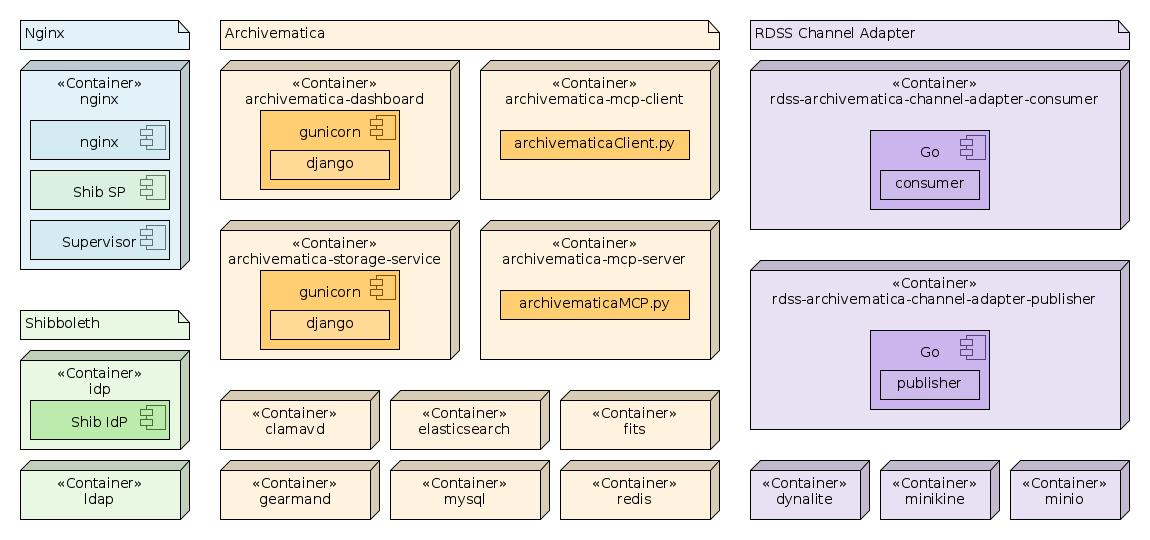
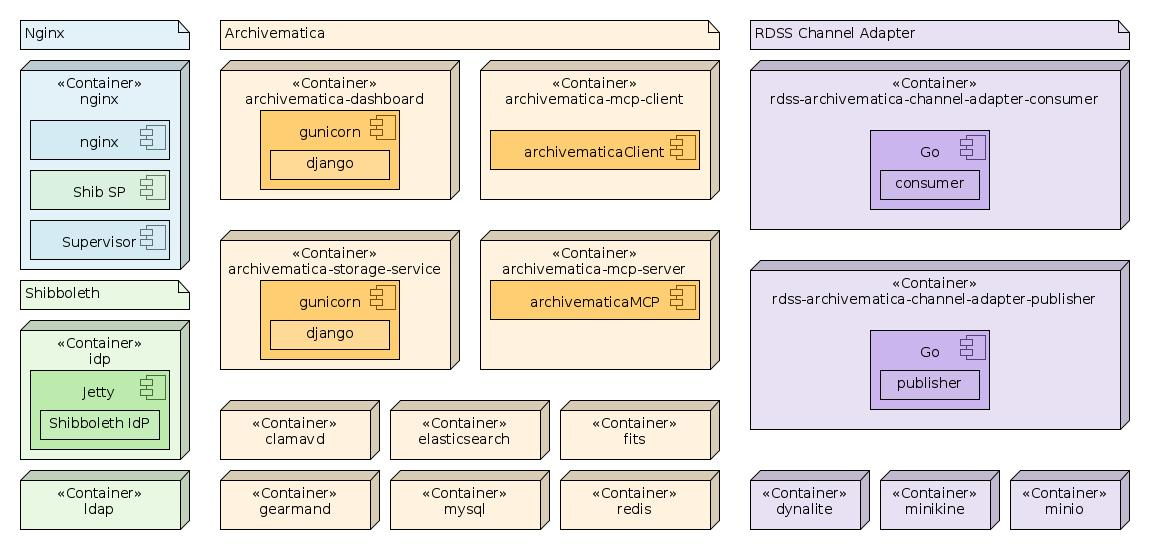
Compose: added and updated documentation

diff --git a/compose/shib/idp/README.md b/compose/shib/idp/README.md
@@ -1,4 +1,67 @@
 Shibboleth: Common IdP Service
 ===============================
 
-TBC
+The IdP service includes the [Shibboleth Identity Provider](https://shibboleth.net/products/identity-provider.html), running in a Jetty container.
+
+The IdP does not ship with a default configuration - instead an install script is provided to create a `customized-shibboleth-idp` directory that is then expected to be modified manually to customize the IdP to meet requirements. This is fine unless the installation is being automated - we want to be able to bring up containers unattended, if need be.
+
+This container uses the `arkivum/shibboleth-idp` image, which extends the [unicorn/shibboleth-idp](https://hub.docker.com/r/unicon/shibboleth-idp/) image, and uses CentOS 7 as its base image.
+
+The configuration here is intended to be "abstract" - additional config files are required for the service to work. The [am-shib IdP](../../am-shib/idp) and [example-shib IdP](../../example-shib/idp) are examples of this.
+
+Building
+---------
+
+The image build itself is expected to be done by the `docker-compose build` task when processing a compose config file. However, prior to that, the IdP needs configuring, which is what the [build script](build.sh) does:
+
+	./build.sh
+
+The IdP itself provides an install wizard that helps you to get set up. The recommended way of setting up the `unicon/shibboleth-idp` image is to run it using `docker run` and specify a directory on the host as a volume mount so that the config files generated by the installer are available after the docker instance has stopped. For example:
+
+	docker run --rm -it -v .:/ext-mount unicon/shibboleth-idp
+
+Unfortunately, when this is run it asks a bunch of questions to help with the set up - not helpful for automatic deployments.
+
+The [init-idp.sh](bin/init-idp.sh) script helps to overcome this. It provides answers to the questions via command line arguments, properties files and environment variables to avoid any interaction being required. We run it like this as part of the build script:
+
+	docker run --rm -it \
+		-h ${IDP_HOSTNAME} \
+		-v $(pwd)/bin:/setup/bin \
+		-v $(pwd)/conf:/setup/conf \
+		-v ${BUILD_DIR}:/ext-mount \
+		-e DOMAIN_NAME=${DOMAIN_NAME} \
+		unicon/shibboleth-idp /setup/bin/init-idp.sh
+
+The additional volumes give us our script and its [config](conf) files, whilst the hostname and environment variable ensure that the generated config has the right parameters for certificates etc.
+
+The only config file relevant to the `init-idp.sh` script is [idp.properties.tpl](conf/idp.properties.tpl) which is a templated properties file used to configure the IdP. This template includes environment variables which are replaced using `sed` before being passed to the installer.
+
+The output of the installer is put into the `build/customized-shibboleth-idp` folder on the Docker host machine.
+
+Aside from running the installer to generate the config, the build script also creates and updates the certificates and keys used for SSL, encryption and signing. These certificates are signed by the [CA](../ca) for the domain.
+
+Configuration
+--------------
+
+Most of the configuration files for the IdP are generated by the installer. There are a few that are overriden, which are in the [conf](conf) folder. These are:
+
+* [attribute-filter.xml](conf/attribute-filter.xml)
+* [attribute-resolver.xml](conf/attribute-resolver.xml)
+* [ldap.properties](conf/ldap.properties)
+
+The `attribute-resolver.xml` file configures how the IdP resolves the attributes for a user that it can share with an SP. In the current configuration, the attributes are resolved by looking up in our [ldap](../ldap) service, and the attributes given relate to the eduPerson schema used by the LDAP records. Details of this configuration file are available [here](https://wiki.shibboleth.net/confluence/display/IDP30/AttributeResolverConfiguration).
+
+The `attribute-filter.xml` file configures how the IdP filters the attributes it retrieves from the configured data connector(s) (i.e. LDAP) before sharing them with an SP. The current configuration is very simple, allowing all available attributes to be shared with any SP requesting them. This can of course be changed; details of this configuration file are available [here](https://wiki.shibboleth.net/confluence/display/IDP30/AttributeFilterConfiguration).
+
+Finally, the `ldap.properties` file configures how the IdP connects to the LDAP directory service to lookup user credentials. The main thing here is setting the baseDN and bindDN to match the installation environment - in particular getting the domain name right and lookup credentials right. Further information about LDAP configuration can be found [here](https://wiki.shibboleth.net/confluence/display/IDP30/LDAPAuthnConfiguration).
+
+More details of the IdP and its configuration are available in the [official documentation](https://wiki.shibboleth.net/confluence/display/IDP30/).
+
+UI Customization
+-----------------
+
+The IdP runs as a web application and presents a user interface for sign in etc. The current configuration uses a very basic (default) template with a couple of minor customizations to the logo and message text.
+
+The logo image is in the [images](images) folder. The path to the file, along with a few other text strings, is set in the [messages](messages/messages.properties) file, which is merged with the main system messages file at runtime.
+
+At the moment the IdP presents itself as "Example University". If this needs to be changed then the [messages.properties](messages/messages.properties) is the place to do it (it could be made more dynamic but this would require the logo image to be selected/generated too, which is not core to the purpose of this IdP container).

diff --git a/compose/README.md b/compose/README.md
@@ -9,16 +9,18 @@ The following diagram gives an overview of the deployed service containers, grou
 
 In the above, the main Archivematica services are highlighted in orange. The services related to Shibboleth are in green, whilst the RDSS-specific containers are highlighted in purple. The nginx service that fronts it all is highlighted in blue. Where relevant the components deployed into each container are shown; for base services this is omitted.
 
-Configuration Sets
--------------------
+Some of these containers are required for local development only. In a production deployment, the `dynalite`, `minikine` and `minio` containers would be replaced with connections to actual DynamoDB, Kinesis and S3 services in an AWS environment. Similarly, if the Shibboleth SP in the `nginx` container is configured to use an external IdP then the `idp` and `ldap` containers would become unnecessary.
 
-There are currently three configuration sets defined:
+Service Sets
+-------------
+
+There are currently three service sets defined:
 
 1. [dev](dev), which defines the main Archivematica services and supporting web server, db, etc, suitable for use in a development environment.
 1. [example-shib](example-shib), which demonstrates Shibboleth integration, providing two demo applications, and Shibboleth Service Providers (SP) and an Identity Provider (IdP) with backing LDAP service.
 1. [am-shib](am-shib), which wraps the Archivematica services in the [dev](dev) service set in Shibboleth authentication, with an integrated SP and example IdP.
 
-These configurations are defined by [docker-compose.dev.yml](docker-compose.dev.yml), [docker-compose.example-shib.yml](docker-compose.example-shib.yml) and [docker-compose.am-shib.yml](docker-compose.am-shib.yml), respectively. You can use the [COMPOSE_FILE](https://docs.docker.com/compose/reference/envvars/) environment variable to set which `docker-compose` file or files you wish to use.
+These service sets are defined by [docker-compose.dev.yml](docker-compose.dev.yml), [docker-compose.example-shib.yml](docker-compose.example-shib.yml) and [docker-compose.am-shib.yml](docker-compose.am-shib.yml), respectively. You can use the [COMPOSE_FILE](https://docs.docker.com/compose/reference/envvars/) environment variable to set which `docker-compose` file or files you wish to use.
 
 To just configure the Archivematica dev environment, use
 
@@ -72,7 +74,7 @@ If you want to focus on just the Shibboleth services and aren't concerned with A
 
 	make all SHIBBOLETH_CONFIG=example
 
-This will bring up the services defined in [docker-compose.example-shib.yml](docker-compose.example-shib.yml), without any Archivmatica services..
+This will bring up the services defined in [docker-compose.example-shib.yml](docker-compose.example-shib.yml), without any Archivmatica services.
 
 After a successful build of the Shibboleth-enabled Archivematica services you should find you have the following services listed by `make list`:
 
@@ -134,4 +136,3 @@ Here are some other `make` commands other than `make all` that may be useful whe
 | `make watch-sp` | Watch logs from the [sp](example-shib/sp) container, if present (`example-shib` only) |
 
 Remember to append the `SHIBBOLETH_CONFIG` argument to the above commands if `make all` was run with this set, otherwise the `docker-compose` context won't be resolved properly (this is required for the `watch-idp` and `watch-sp` commands).
-

diff --git a/compose/am-shib/nginx/README.md b/compose/am-shib/nginx/README.md
@@ -1,4 +1,28 @@
 Shibboleth-enabled Archivematica: Nginx Service
-===================================================
+================================================
 
-TBC
+This service provides a "concrete" instance of the [shib/nginx](../shib/nginx) service.
+
+It provides two templated files required by the generic image: the [template nginx config file](etc/nginx/conf.d/example.conf.tpl) and the [template Shibboleth config file](etc/shibboleth/shibboleth2.xml.tpl). The [build script](build.sh) provides these, along with the required private key and certificates signed by the [domain CA](../shib/ca).
+
+The nginx service hosts two virtual servers, one for the Archivematica Dashboard on port 443, and one for the Archivematica Storage Service on port 8443. Each server is configured with the required Shibboleth locations, as well as the `/` location, which is secured by Shibboleth. Some resources, such as `/api` and static media are not secured, because they don't need to be.
+
+By default the nginx service is configured to be available at `https://archivematica.example.ac.uk/`.
+
+Building
+---------
+
+The [build script](build.sh) will prepare the image with the relevant configuration and certificates etc:
+
+	./build.sh
+
+Configuration
+--------------
+
+The template files for the `nginx` configuration and `shibboleth2.xml` configuration are included in the [etc](etc) folder. See [shib/nginx](../../shib/nginx) for more information.
+
+Unlike [example-shib/nginx](../../example-shib/nginx), the Archivematica Shibboleth configuration is a bit more involved and specific.
+
+In particular, it has been tuned to work with the eduPerson schema, which is what the [attribute map](etc/shibboleth/attribute-map.xml) does. The [shibboleth2.xml](etc/shibboleth/shibboleth2.xml.tpl) includes access control elements that restrict access to the Dashboard and Storage Service based on a user's entitlements (derived from the `eduPersonEntitlement` attribute in LDAP). The Dashboard and the Storage Service are treated as two seperate applications, each with their own `entityID`.
+
+Because there are two applications, there needs to be two FastCGI handlers too. This requires a change to the [Supervisor configuration](etc/supervisor/conf.d/shibboleth.conf), to add the additional handler.

diff --git a/compose/example-shib/README.md b/compose/example-shib/README.md
@@ -21,24 +21,24 @@ Services
 
 ### Nginx (with Shibboleth SP)
 
-The `nginx` container overrides the `dev/nginx` container defined by the main Archivematica compose config. This container uses the `arkivum/shibboleth-nginx` image, which is built using the "abstract" `shib/nginx` [Dockerfile](../shib/nginx/Dockerfile). This is prepared and built using the [build script](nginx/build.sh).
+The `nginx` container uses the `arkivum/shibboleth-nginx` image, which is built using the "abstract" `shib/nginx` [Dockerfile](../shib/nginx/Dockerfile). This is prepared and built using the [build script](nginx/build.sh).
 
-See the nginx [README](nginx/README.md) for more details.
+See the [README](nginx/README.md) for more details.
 
 ### Shibboleth IdP
 
 This container uses the `arkivum/shibboleth-idp` image, which is built using the "abstract" `shib/idp` [Dockerfile](../shib/idp/Dockerfile). This is prepared and built using its [build script](idp/build.sh).
 
-See the idp [README] (idp/README.md) for more details.
+See the [README](idp/README.md) for more details.
 
 ### Shibboleth SP1
 
 This container runs the [sp1](https://github.com/serglopatin/sp1) application to demonstrate the use of the [djangosaml2]() library to interact with a Shibboleth IdP. This is an alternative to using the Shibboleth SP FastCGI module used in the `nginx` container.
 
-See the sp1 [README] (sp/README.md) for more details.
+See the [README](sp/README.md) for more details.
 
 ### MyApp
 
 This container runs a very simple Django application. It does not offer any Shibboleth integration itself - instead it expects to be protected by Shibboleth via the nginx container, which is expected to be used as a proxy layer for this service.
 
-See the myapp [README](myapp/README.md) for more details.
+See the [README](myapp/README.md) for more details.

diff --git a/compose/am-shib/README.md b/compose/am-shib/README.md
@@ -1,4 +1,30 @@
 Shibboleth-enabled Archivematica Services
 ===========================================
 
-TBC
+The containers in this `docker-compose` service set provide an Archivematica deployment that uses Shibboleth authentication to secure access.
+
+Building
+---------
+
+Use `make` to build these services:
+
+	make all
+
+Though the above can be used, it will not include any of the main Archivematica containers, so the `nginx` service will not have any running services to proxy. Because of this, it is recommended you use the parent [compose](compose) makefile to build this service set, unless wishing to reduce the build time during development/debugging.
+
+Services
+---------
+
+In addition to the main Archivematica containers, this service set includes the following services.
+
+### Nginx (with Shibboleth SP)
+
+This container overrides the `dev/nginx` container and uses the `arkivum/shibboleth-nginx` image, which is built using the "abstract" `shib/nginx` [Dockerfile](../shib/nginx/Dockerfile). It proxies the Archivematica Dashboard and Storage Service, using the Shibboleth SP to secure access to these resources.
+
+See the [README](nginx/README.md) for more details.
+
+### Shibboleth IdP
+
+This container uses the `arkivum/shibboleth-idp` image, which is built using the "abstract" `shib/idp` [Dockerfile](../shib/idp/Dockerfile). This is prepared and built using its [build script](idp/build.sh).
+
+See the idp [README](idp/README.md) for more details.

diff --git a/compose/shib/README.md b/compose/shib/README.md
@@ -11,7 +11,7 @@ This folder contains the definitions for services that are common to all Shibbol
 Shibboleth Identity Provider
 -----------------------------
 
-This container uses the `arkivum/example-shib-idp` image. This extends the [unicorn/shibboleth-idp](https://hub.docker.com/r/unicon/shibboleth-idp/) image, which uses CentOS 7 as its base image.
+This container uses the `arkivum/shibboleth-idp` image, which extends the [unicorn/shibboleth-idp](https://hub.docker.com/r/unicon/shibboleth-idp/) image, and uses CentOS 7 as its base image.
 
 The software run by this image is the off-the-shelf [Shibboleth IdP](https://shibboleth.net/products/identity-provider.html), which runs as a Java webapp in Jetty. The IdP does not ship with a default configuration - instead a build script is provided to create a `customized-shibboleth-idp` directory that is then expected to be modified manually to customize the IdP to meet requirements. This is fine unless the installation is being automated - we want to be able to bring up containers unattended, if need be.
 

diff --git a/compose/am-shib/idp/README.md b/compose/am-shib/idp/README.md
@@ -1,4 +1,10 @@
 Shibboleth-enabled Archivematica: IdP Service
 ==============================================
 
-TBC
+This service provides a "concrete" instance of the [shib/idp](../shib/idp) service.
+
+It provides the [service-providers.json](etc/service-providers.json) file, which is used by the [build script](build.sh) to use the [idp-metadata-providers.py](../../shib/idp-metadata-providers.py) script to generate the required `metadata-providers.xml` used by the IdP to describe the SPs it knows about.
+
+In this Archivematica Shibboleth deployment, we have two SPs: one for the Archivematica Dashboard and one for the Archivematica Storage Service. Although part of the same product they run on different ports they have different endpoints, hence it is simplest to treat them as different SPs as far as the IdP is concerned.
+
+In reality, the Dashboard and Storage Service are both serviced by the same SP; see the relevant [nginx](../nginx) service for details.

diff --git a/compose/example-shib/idp/README.md b/compose/example-shib/idp/README.md
@@ -3,6 +3,6 @@ Shibboleth Example: IdP Service
 
 This service provides a "concrete" instance of the [shib/idp](../shib/idp) service.
 
-It provides the [service-providers.json](etc/service-providers.json) file, which is used by the [build script](build.sh) to use the [idp-metadata-providers.py] script to generate the required `metadata-providers.xml` used by the IdP to describe the SPs it knows about.
+It provides the [service-providers.json](etc/service-providers.json) file, which is used by the [build script](build.sh) to use the [idp-metadata-providers.py](../../shib/idp-metadata-providers.py) script to generate the required `metadata-providers.xml` used by the IdP to describe the SPs it knows about.
 
 In this Shibboleth example, we have two SPs: the FastCGI one within the `nginx` container, and the one within the `sp` container, running the [SP1](sp) service.

diff --git a/compose/example-shib/nginx/README.md b/compose/example-shib/nginx/README.md
@@ -8,3 +8,15 @@ It provides two templated files required by the generic image: the [template ngi
 The nginx server is configured with the required Shibboleth locations, as well as the `/app` location, which is secured by Shibboleth. Through configuration in the `docker-compose` file, this is a proxy to the [myapp](../myapp) application.
 
 By default the nginx service is configured to be available at `https://myapp.example.ac.uk/`.
+
+Building
+---------
+
+The [build script](build.sh) will prepare the image with the relevant configuration and certificates etc:
+
+	./build.sh
+
+Configuration
+--------------
+
+The template files for the `nginx` configuration and `shibboleth2.xml` configuration are included in the [etc](etc) folder. See [shib/nginx](../../shib/nginx) for more information.

diff --git a/compose/shib/ca/README.md b/compose/shib/ca/README.md
@@ -14,7 +14,7 @@ This folder contains scripts and configuration files to use OpenSSL to operate a
 Initial Setup
 ---------------
 
-The [init.sh](ca/init.sh) script initializes the Certificate Authority, creating the initial certificate and database etc. This script only needs to be run once - it doesn't need to be re-run each build.
+The [init script](ca/init.sh) initializes the Certificate Authority, creating the initial certificate and database etc. This script only needs to be run once - it doesn't need to be re-run each build.
 
 This script can be used to manage multiple domains. The CA for each domain has its files in the `domains` folder, under a sub-folder for that domain (e.g. `example.ac.uk`).
 

diff --git a/compose/shib/nginx/README.md b/compose/shib/nginx/README.md
@@ -27,7 +27,7 @@ All of the above arguments are required; there are no defaults.
 Building
 ---------
 
-The [build.sh](build.sh) script is provided to make building images with the required arguments easier. For example:
+The [build script](build.sh) is provided to make building images with the required arguments easier. For example:
 
 	./build.sh -c /tmp/example-ca.crt -d example.com \
 		-k /tmp/sp-key.pem -s /tmp/sp-cert.pem -w /tmp/sp-web-cert.pem \

diff --git a/compose/shib/ldap/README.md b/compose/shib/ldap/README.md
@@ -8,7 +8,7 @@ The container image isn't customized but configuration is added. In particular, 
 Building
 ---------
 
-The [build](build.sh) script processes the template for the demo user accounts and sets their domain to the configured domain name and organisation:
+The [build script](build.sh) processes the template for the demo user accounts and sets their domain to the configured domain name and organisation:
 
 	./build.sh
 
